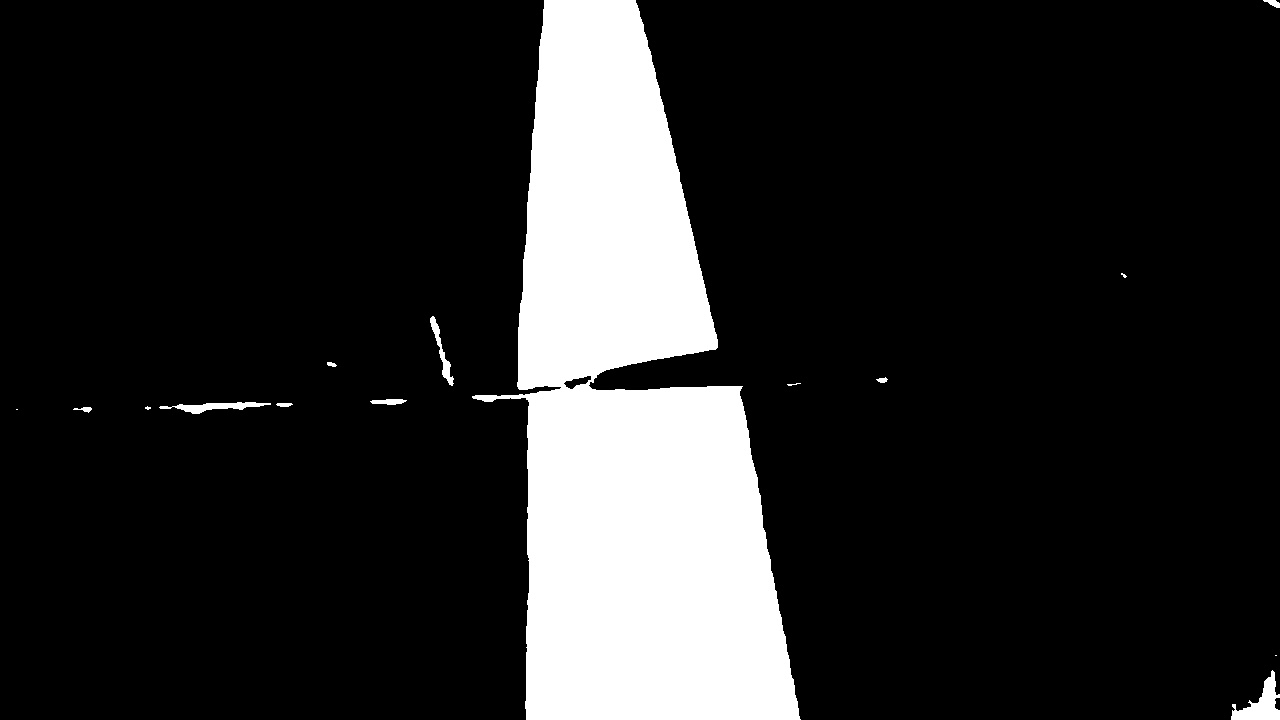
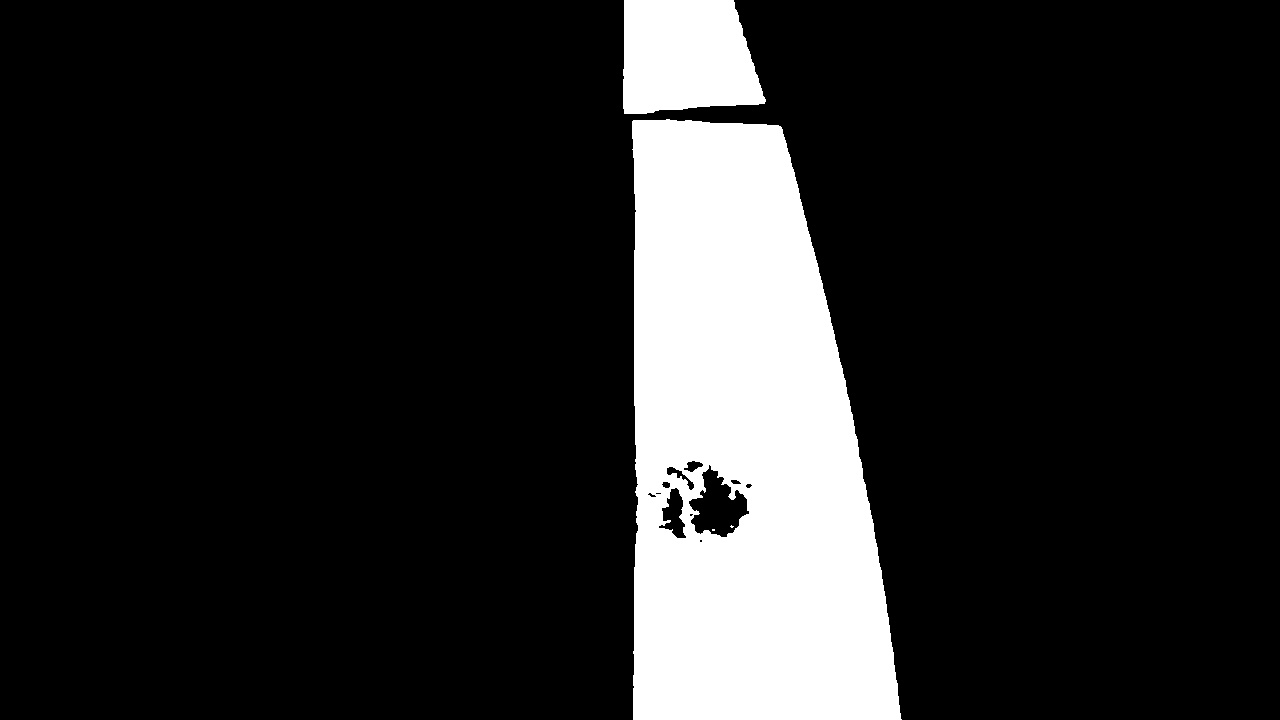
Francisco: Basic Line Following with lineAngle

diff --git a/In Progress/robot.py b/In Progress/robot.py
@@ -1,6 +1,7 @@
 # -------- Robot Actuators/Sensors -------- 
 import time
 from gpiozero import Button
+import numpy as np
 
 import config
 from utils import *
@@ -129,9 +130,9 @@ def LoPSwitchController():
     
 
 # Calculate motor Speed difference from default
-def PID(lineCenter):
+def PID(lineCenterX):
     global error, errorAcc, lastError
-    error = lineCenter - 1280 / 2 # Camera view is 1280 pixels
+    error = lineCenterX - 1280 / 2 # Camera view is 1280 pixels
     errorAcc = errorAcc + error
 
     motorSpeed = config.KP * error + config.KD * (error - lastError) + config.KI * errorAcc
@@ -140,6 +141,25 @@ def PID(lineCenter):
 
     return motorSpeed
 
+def PID2(lineCenterX, lineAngle):
+    global error_x, errorAcc, lastError, error_theta
+    
+    # Errors
+    error_x = lineCenterX - 1280 / 2  # Camera view is 1280 pixels
+    error_theta = lineAngle - (np.pi / 2)  # Angle difference from vertical (pi/2)
+    
+    # Accumulate error for integral term
+    errorAcc += error_x
+
+    # Compute motor speed adjustment (mixing both errors)
+    motorSpeed = (config.KP * error_x + 
+                  config.KD * (error_x - lastError) + 
+                  config.KI * errorAcc + 
+                  config.KP_THETA * error_theta)  # New term for angle correction
+
+    lastError = error_x  # Only update last error for x
+
+    return motorSpeed
 
 # Calculate motor Speed
 def calculateMotorSpeeds(motorSpeed):
@@ -157,17 +177,19 @@ def calculateMotorSpeeds(motorSpeed):
     if 1450 <= m2Speed <= 1550:
         m2Speed = config.DEFAULT_STOPPED_SPEED + config.ESC_DEADZONE if m2Speed > config.DEFAULT_STOPPED_SPEED else config.DEFAULT_STOPPED_SPEED - config.ESC_DEADZONE
     
-    printDebug(f"Line Center: {lineCenter.value}, motorSpeed: {motorSpeed}, M1: {m1Speed}, M2: {m2Speed}", config.softDEBUG)
+    #printDebug(f"Line Center: {lineCenterX.value}, Angle: {round(np.rad2deg(lineAngle.value), 0)} motorSpeed: {motorSpeed}, M1: {m1Speed}, M2: {m2Speed}", config.softDEBUG)
 
     return m1Speed, m2Speed
 
 
 # Update Motor Vars accordingly
 def setMotorsSpeeds():
-    global M1, M2, switchState
+    global M1, M2, M1info, M2info, switchState, motorSpeedDiference, commandWaitingList
     
-    motorSpeedDiference = PID(lineCenter.value)
+    #motorSpeedDiference = PID(lineCenterX.value)
+    motorSpeedDiference = PID2(lineCenterX.value, lineAngle.value)
     M1, M2 = calculateMotorSpeeds(motorSpeedDiference)
+    M1info, M2info = M1, M2
 
     if switchState: #LoP On - GamepadControl
         M1 = gamepadM1.value
@@ -186,9 +208,16 @@ def controlMotors():
 #############################################################################
 
 def controlLoop():
-    global switchState, M1, M2, oldM1, oldM2
+    global switchState, M1, M2, M1info, M2info, oldM1, oldM2, motorSpeedDiference, error_theta, error_x, errorAcc, lastError
 
     switchState = is_switch_on()
+    motorSpeedDiference = 0
+    M1info = 0
+    M2info = 0
+    error_theta = 0
+    error_x = 0
+    lastError = 0
+    errorAcc = 0
     sendCommandList(["GR","BC", "SF,5,F", "CL", "SF,4,F"])
 
     t0 = time.perf_counter()
@@ -207,9 +236,22 @@ def controlLoop():
         receivedMessage = mySerial.readSerial(config.DEBUG)
         interpretMessage(receivedMessage)
 
+        #debugMessage = f"Line C: {lineCenterX.value} \tA: {round(np.rad2deg(lineAngle.value),2)} \tKx: {config.KP * error_x + config.KD * (error_x - lastError) + config.KI * errorAcc} \tKpTheta: {round(config.KP_THETA*error_theta,2)} \tMotor D: {round(motorSpeedDiference, 2)} \tM1: {int(M1info)} \tM2: {int(M2info)} \tLOP: {switchState} \tCommands: {commandWaitingList}"
+        debugMessage = (
+            f"Line Center: {lineCenterX.value} \t"
+            f"Angle: {round(np.rad2deg(lineAngle.value),2)} \t"
+            f"LineBias: {config.KP * error_x + config.KD * (error_x - lastError) + config.KI * errorAcc}   \t"
+            f"AngBias: {round(config.KP_THETA*error_theta,2)}     \t"
+            f"Motor D: {round(motorSpeedDiference, 2)}   \t"
+            f"M1: {int(M1info)} \t"
+            f"M2: {int(M2info)} \t"
+            f"LOP: {switchState} \t"
+            f"Commands: {commandWaitingList}"
+        )
+        printDebug(f"{debugMessage}", config.softDEBUG)
+
         oldM1 = M1
         oldM2 = M2
-
 
         while (time.perf_counter() <= t1):
             time.sleep(0.0005)

diff --git a/In Progress/Line_Cam.py b/In Progress/Line_Cam.py
@@ -63,7 +63,7 @@ def getLine(Image, blackImage):
     
     # No contours
     if not contoursblk:
-        return line_angle.value, Image, blackImage
+        return lineCenterX.value, lineAngle.value, Image, blackImage
     
     largest_contour = max(contoursblk, key=cv2.contourArea)
 
@@ -82,7 +82,11 @@ def getLine(Image, blackImage):
         mu02 = M["mu02"] / M["m00"]
         mu11 = M["mu11"] / M["m00"]
 
-        theta = round(np.rad2deg(0.5 * np.arctan2(2 * mu11, mu20 - mu02)), 0)  # Principal axis angle
+        theta = 0.5 * np.arctan2(2 * mu11, mu20 - mu02)  # Principal axis angle
+
+        if theta < 0:
+            printDebug(f"theta og: {round(theta,2)} {round(np.rad2deg(theta),2)}, new {round(np.pi + theta,2)} {round(np.rad2deg(np.pi + theta),2)}", config.DEBUG)
+            theta = np.pi + theta
 
         # Define line endpoints along the principal axis
         length = 100  # Adjust for visualization
@@ -98,12 +102,12 @@ def getLine(Image, blackImage):
         cv2.line(Image, (x1, y1), (x2, y2), (255, 0, 0), 2)
 
         #
-        cv2.putText(Image, f"{theta}", (1125, 100), cv2.FONT_HERSHEY_SIMPLEX, 1, (0, 0, 255), 2)
+        cv2.putText(Image, f"{round(np.rad2deg(theta), 0)}", (1125, 100), cv2.FONT_HERSHEY_SIMPLEX, 1, (0, 0, 255), 2)
 
-        return theta, Image, blackImage
+        return cx, theta, Image, blackImage
     
     else:
-        return line_angle.value, Image, blackImage
+        return lineCenterX.value, lineAngle.value, Image, blackImage
 
 def LoPController():
     pass
@@ -176,15 +180,15 @@ def lineCamLoop():
             black_image = cv2.inRange(hsv_image, black_min, black_max)
             
             # Find the line center and determine movement
-            line_position = get_line_center(black_image)
+            """line_position = get_line_center(black_image)
             if line_position:
                 cx, _ = line_position
-                lineCenter.value = cx
+                lineCenterX.value = cx
                 # Draw centroid
-                cv2.circle(cv2_img, (cx, 300), 5, (0, 255, 255), -1)
+                cv2.circle(cv2_img, (cx, 300), 5, (0, 255, 255), -1)"""
 
             
-            line_angle.value, cv2_img, black_image = getLine(cv2_img, black_image)
+            lineCenterX.value, lineAngle.value, cv2_img, black_image = getLine(cv2_img, black_image)
 
             # Show Images
             cv2.imwrite("/home/raspberrypi/Airborne_Rescue_Line_2025/In Progress/latest_frame_cv2.jpg", cv2_img)
@@ -206,6 +210,6 @@ def lineCamLoop():
         while (time.perf_counter() <= t1):
             time.sleep(0.0005)
 
-        printDebug(f"\t\t\t\t\t\t\t\tLine Cam Loop Time: {t0} | {t1} | {time.perf_counter()} | {time.time()}", config.softDEBUG)
+        printDebug(f"\t\t\t\t\t\t\t\tLine Cam Loop Time: {t0} | {t1} | {time.perf_counter()}", config.DEBUG)
         t0 = t1
             

diff --git a/In Progress/MP_Manager.py b/In Progress/MP_Manager.py
@@ -11,8 +11,8 @@ gamepadM1 = manager.Value("i", 1520)
 gamepadM2 = manager.Value("i", 1520)
 commandToExecute = manager.Value("i", "none") #"none",""
 
-lineCenter = manager.Value("i", 600)
-line_angle = manager.Value("i", 0.)
+lineCenterX = manager.Value("i", 600)
+lineAngle = manager.Value("i", 0.)
 line_angle_y = manager.Value("i", -1)
 line_detected = manager.Value("i", False)
 

diff --git a/In Progress/config.py b/In Progress/config.py
@@ -21,7 +21,7 @@ controlDelayMS = 25 # 100 Hz
 
 # Color Configs
 black_min = [0, 0, 0] # 82 83 84
-black_max = [255, 255, 150] # 133 133 135
+black_max = [255, 255, 100] # 133 133 135
 green_min = [58, 95, 39]
 green_max = [98, 255, 255]
 red_min_1 = [0, 100, 90]
@@ -52,3 +52,4 @@ speedFactor = 0
 KP = 0.75
 KD = 1.50
 KI = 0
+KP_THETA = 250 # 407 = 1280/3.14159
